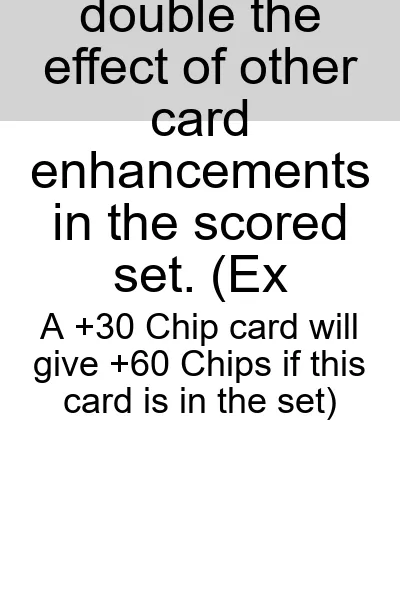
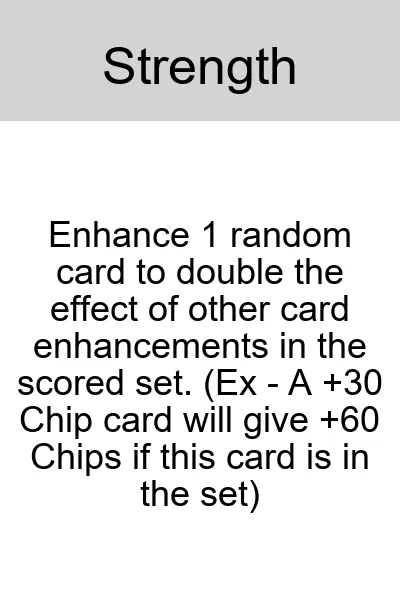
Add dev cheat endpoints and functions; update Alchemist logic
Introduces backend endpoints and frontend functions for developer cheats (set money, give joker, give tarot). Refines The Alchemist joker's ability to convert chips to multiplier, updates related descriptions, and adds debug logging for ability triggers. Also ensures score animations use Math.floor for consistency and updates several image assets and documentation.

Changed region(s): [[0.03, 0.24, 0.96, 0.87], [0.09, 0.0, 0.9, 0.24]]

diff --git a/static/balatro.js b/static/balatro.js
@@ -339,7 +339,9 @@ function updateUI(gameState, oldGameState = { round_score: 0, board: [] }, isMid
     }
 
     // Animate score
-    animateScore(oldGameState.round_score || 0, gameState.round_score);
+    if (oldGameState.round_score != gameState.round_score) {
+        animateScore(oldGameState.round_score || 0, gameState.round_score);
+    }
 
     // Render Jokers
     DOMElements.jokerArea.innerHTML = '';
@@ -1084,7 +1086,7 @@ async function showScoringAnimation(selectedCardElements, selectedCardsData, sco
             lastMult = newMult;
 
             // Update the total immediately after sub-values finish animating
-            scoringTotalValueEl.textContent = Math.round(lastChips * lastMult);
+            scoringTotalValueEl.textContent = Math.floor(lastChips * lastMult);
         }
     }
 
@@ -1100,10 +1102,10 @@ async function showScoringAnimation(selectedCardElements, selectedCardsData, sco
     }
 
     // Animate the main score counter
-    animateScore(oldState.round_score, newState.round_score);
+    animateScore(oldState.round_score, Math.floor(newState.round_score));
 
     // --- Show Final Score ---
-    finalScoreValueEl.textContent = score_gained;
+    finalScoreValueEl.textContent = Math.floor(score_gained);
     finalScoreValueEl.parentElement.classList.add('show-final');
 
     // --- Hide Scoring Display ---
@@ -1186,7 +1188,6 @@ async function handleConfirmPackChoice() {
 
     try {
         const { game_state: newGameState, message } = await api.choosePackReward(state.gameId, selectedIds);
-        if (message) showMsg(message);
         updateUI(newGameState);
     } catch (error) {
         console.error("Error confirming pack choice:", error);
@@ -1196,3 +1197,53 @@ async function handleConfirmPackChoice() {
 }
 
 document.addEventListener('DOMContentLoaded', init);
+
+// === DEV CHEAT FUNCTIONS ===
+// Usage in browser console: setMoney(100), giveJoker("J_CHIPS"), giveTarot("T_THE_EMPRESS")
+window.setMoney = async function(amount) {
+    if (!state.gameId) {
+        console.error("No game loaded.");
+        return;
+    }
+    try {
+        const res = await fetch(`/api/balatro/set_money?id=${state.gameId}&amount=${amount}`, { method: 'POST' });
+        if (!res.ok) throw new Error("Failed to set money");
+        const data = await res.json();
+        updateUI(data.game_state);
+        console.log("Money set to", amount);
+    } catch (e) {
+        console.error(e);
+    }
+};
+
+window.giveJoker = async function(jokerId) {
+    if (!state.gameId) {
+        console.error("No game loaded.");
+        return;
+    }
+    try {
+        const res = await fetch(`/api/balatro/give_joker?id=${state.gameId}&joker_id=${jokerId}`, { method: 'POST' });
+        if (!res.ok) throw new Error("Failed to give joker");
+        const data = await res.json();
+        updateUI(data.game_state);
+        console.log("Gave joker", jokerId);
+    } catch (e) {
+        console.error(e);
+    }
+};
+
+window.giveTarot = async function(tarotId) {
+    if (!state.gameId) {
+        console.error("No game loaded.");
+        return;
+    }
+    try {
+        const res = await fetch(`/api/balatro/give_tarot?id=${state.gameId}&tarot_id=${tarotId}`, { method: 'POST' });
+        if (!res.ok) throw new Error("Failed to give tarot");
+        const data = await res.json();
+        updateUI(data.game_state);
+        console.log("Gave tarot", tarotId);
+    } catch (e) {
+        console.error(e);
+    }
+};

diff --git a/balatro_set_core.py b/balatro_set_core.py
@@ -130,13 +130,15 @@ def get_joker_by_name(game_state: 'GameState', name: str) -> Optional['Joker']:
     return None
 
 def j_alchemist_ability(joker: 'Joker', ctx: 'GameContext'):
-    """Converts Chips to xMult, then resets Chips."""
-    chips_to_convert = ctx.scoring.flat_chips
-    if chips_to_convert > 0:
-        # Every 50 chips provides +x0.5 Mult
-        mult_gain = 1.0 + (chips_to_convert / 100.0)
-        ctx.scoring.multiplicative_mult *= mult_gain
-        ctx.scoring.flat_chips = 0
+    chips_to_convert = ctx.scoring.flat_chips + ctx.scoring.base_chips
+    n_100s, remainder = divmod(chips_to_convert, 100)
+    print(f"Converting {chips_to_convert} Chips to Multiplier: {n_100s} x2 Multiplier(s) and {remainder} remaining Chips.")
+    if n_100s > 0:
+        ctx.scoring.multiplicative_mult *= 2 * n_100s
+    ctx.scoring.base_chips = remainder
+    ctx.scoring.flat_chips = 0  # Reset flat chips after conversion
+
+
 
 def j_mimic_ability(joker: 'Joker', ctx: 'GameContext'):
     """Copies the abilities of the Joker to its right."""
@@ -237,12 +239,11 @@ JOKER_DATABASE = {
     "J_ALCHEMIST": Joker(
         id="J_ALCHEMIST",
         name="The Alchemist",
-        description="Converts all Chips from Jokers and cards into xMult at a rate of 100 Chips to x2 Mult, then sets Chips to 0. (Calculated before Base Chips)",
+        description="Converts Chips into xMult at a rate of 100 Chips to x2 Mult.",
         rarity="Rare",
         abilities=[
-            JokerAbility(trigger=JokerTrigger.ON_SCORE_CALCULATION, priority=90, ability=j_alchemist_ability)
+            JokerAbility(trigger=JokerTrigger.ON_SCORE_CALCULATION, ability=j_alchemist_ability)
         ]
-        # NOTE: The high priority (90) ensures it calculates after most +Chips jokers (priority 10) but before most xMult jokers (priority 100).
     ),
 
     "J_LAST_STAND": Joker(
@@ -421,6 +422,7 @@ TAROT_DATABASE = {
         target_count=1,
         abilities=[ConsumableAbility(trigger=ConsumableTrigger.ON_USE, ability=t_wheel_of_fortune_ability)]
     ),
+
     "T_THE_HANGED_MAN": ConsumableCard(
         id="T_THE_HANGED_MAN",
         name="The Hanged Man",
@@ -610,6 +612,8 @@ def trigger_joker_abilities(game: GameState, trigger: JokerTrigger, scoring_ctx:
     abilities_to_run = [(joker, ability) for joker in active_jokers for ability in joker.abilities if ability.trigger == trigger]
     abilities_to_run.sort(key=lambda x: x[1].priority)
     
+    print(f"Triggering {len(abilities_to_run)} joker abilities for trigger: {trigger.name}")
+
     game_ctx = GameContext(game=game, scoring=scoring_ctx)
     
     # Determine trigger phase for logging
@@ -623,6 +627,7 @@ def trigger_joker_abilities(game: GameState, trigger: JokerTrigger, scoring_ctx:
             additive_mult_before = scoring_ctx.additive_mult
             multiplicative_mult_before = scoring_ctx.multiplicative_mult
         
+        print(f"Running ability {ability_def.ability.__name__} for joker {joker.name} with trigger {trigger.name}")
         ability_def.ability(joker, game_ctx)
 
         if scoring_ctx:
@@ -633,6 +638,7 @@ def trigger_joker_abilities(game: GameState, trigger: JokerTrigger, scoring_ctx:
             chips_change = scoring_ctx.flat_chips - flat_chips_before
             additive_mult_change = scoring_ctx.additive_mult - additive_mult_before
             multiplicative_mult_change = scoring_ctx.multiplicative_mult / multiplicative_mult_before
+            print(f"Joker {joker.name} ability {ability_def.ability.__name__} changed chips from {chips_before} to {chips_after}, mult from {mult_before} to {mult_after}")
 
             if chips_change != 0 or additive_mult_change != 0 or abs(multiplicative_mult_change - 1) > 0.001:
                 description = ""
@@ -640,11 +646,18 @@ def trigger_joker_abilities(game: GameState, trigger: JokerTrigger, scoring_ctx:
                 # Priority order: chips -> additive mult -> multiplicative mult
                 if chips_change > 0: 
                     description = f"+{int(chips_change)} Chips"
+                elif chips_change < 0:
+                    description = f"{int(chips_change)} Chips"
                 elif additive_mult_change > 0:
                     if isinstance(additive_mult_change, int) or additive_mult_change.is_integer():
                          description = f"+{int(additive_mult_change)} Mult"
                     else:
                          description = f"+{additive_mult_change:.1f} Mult"
+                elif additive_mult_change < 0:
+                    if isinstance(additive_mult_change, int) or additive_mult_change.is_integer():
+                        description = f"{int(additive_mult_change)} Mult"
+                    else:
+                        description = f"{additive_mult_change:.1f} Mult"
                 elif abs(multiplicative_mult_change - 1) > 0.001:
                     if multiplicative_mult_change.is_integer():
                         description = f"x{int(multiplicative_mult_change)} Mult"

diff --git a/server.py b/server.py
@@ -2,9 +2,7 @@ from fastapi import FastAPI
 from fastapi.responses import JSONResponse, FileResponse
 from fastapi import HTTPException
 from fastapi import BackgroundTasks
-from pydantic import BaseModel, Field
-from pydantic.json_schema import JsonSchemaValue
-from pydantic_core import core_schema
+from pydantic import BaseModel
 import uvicorn
 import random
 import sys
@@ -700,6 +698,42 @@ async def leave_shop(id: str):
     game_state_dict["current_blind"] = blind_info["name"]
     game_state_dict["blind_score_required"] = blind_info["score_required"]
     return {"game_state": game_state_dict}
+
+@app.post("/api/balatro/set_money", include_in_schema=False)
+async def set_money(id: str, amount: int):
+    if id not in GAME_SAVES:
+        raise HTTPException(status_code=404, detail="Game not found.")
+    current_game = GAME_SAVES[id]
+    current_game.money = amount
+    return {"game_state": current_game.model_dump()}
+
+@app.post("/api/balatro/give_joker", include_in_schema=False)
+async def give_joker(id: str, joker_id: str):
+    from balatro_set_core import JOKER_DATABASE
+    if id not in GAME_SAVES:
+        raise HTTPException(status_code=404, detail="Game not found.")
+    current_game = GAME_SAVES[id]
+    if joker_id not in JOKER_DATABASE:
+        raise HTTPException(status_code=400, detail="Invalid joker id.")
+    if len(current_game.jokers) >= current_game.joker_slots:
+        raise HTTPException(status_code=400, detail="No empty joker slots.")
+    joker = JOKER_DATABASE[joker_id].copy()
+    current_game.jokers.append(joker)
+    return {"game_state": current_game.model_dump()}
+
+@app.post("/api/balatro/give_tarot", include_in_schema=False)
+async def give_tarot(id: str, tarot_id: str):
+    from balatro_set_core import TAROT_DATABASE
+    if id not in GAME_SAVES:
+        raise HTTPException(status_code=404, detail="Game not found.")
+    current_game = GAME_SAVES[id]
+    if tarot_id not in TAROT_DATABASE:
+        raise HTTPException(status_code=400, detail="Invalid tarot id.")
+    if len(current_game.consumables) >= current_game.consumable_slots:
+        raise HTTPException(status_code=400, detail="No empty consumable slots.")
+    tarot = TAROT_DATABASE[tarot_id]
+    current_game.consumables.append(tarot)
+    return {"game_state": current_game.model_dump()}
 
 @app.get("/api/balatro/saves")
 async def get_saves():

diff --git a/static/images/_tmp.md b/static/images/_tmp.md
@@ -17,7 +17,7 @@
 - J_FIRST_CARD -> First Strike: +50 Chips for the first card scored in a set
 - J_JUGGLER -> The Juggler: This Joker gains +1 Mult for every 2 cards on your board at end of round.
 - J_SCAVENGER -> Scavenger: +1 Mult permanently when a card is discarded.
-- J_ALCHEMIST -> The Alchemist: Converts all Chips from Jokers and cards into xMult at a rate of 100 Chips to x2 Mult, then sets Chips to 0. (Calculated before Base Chips)
+- J_ALCHEMIST -> The Alchemist: Converts Chips into xMult at a rate of 100 Chips to x2 Mult.
 - J_LAST_STAND -> Last Stand: x4 Mult on your final set of the round.
 - J_MIMIC -> The Mimic: Copies all scoring abilities of the Joker to its right.
 - J_GAMBLER -> Gambler: 50% chance to x3 Mult, 50% chance to set Mult to 1.
@@ -31,13 +31,13 @@
 - T_THE_WORLD -> The World: Make all cards on the board any random single color.
 - T_JUDGEMENT -> Judgement: Retrieve 3 random cards from your discard pile.
 - T_THE_DEVIL -> The Devil: Gain $15, but destroy a random Joker.
-- T_STRENGTH -> Strength: Enhance 1 random card to double the effect of other card enhancements in the scored set. (Ex: A +30 Chip card will give +60 Chips if this card is in the set)
-- T_THE_FOOL -> The Fool: Create 1 'Wildcard'. (Wildcard: Can be part of any Set. Provides no Chips or Mult itself)
+- T_STRENGTH -> Strength: Enhance 1 random card to double the effect of other card enhancements in the scored set. (Ex - A +30 Chip card will give +60 Chips if this card is in the set)
+- T_THE_FOOL -> The Fool: Create 1 'Wildcard'. (Wildcard - Can be part of any Set. Provides no Chips or Mult itself)
 - T_THE_HERMIT -> The Hermit: Gain +1 Board and +1 Discard for the current round.
 - T_THE_LOVERS -> The Lovers: Enhance 1 selected card to +30 Chips.
 - T_THE_CHARIOT -> The Chariot: Enhance 1 selected card to +2 Mult.
 - T_THE_WHEEL_OF_FORTUNE -> The Wheel of Fortune: Make one random card a copy of selected card.
-- T_THE_HANGED_MAN -> The Hanged Man: Gain 1 extra hand
+- T_THE_HANGED_MAN -> The Hanged Man: Gain 1 extra hand.
 
 - 0_uniform_4_ladder -> 0 Uniforms, 4 Ladders: Level up sets with 0 uniform and 4 ladder features.
 - 1_uniform_3_ladder -> 1 Uniform, 3 Ladders: Level up sets with 1 uniform and 3 ladder features.
